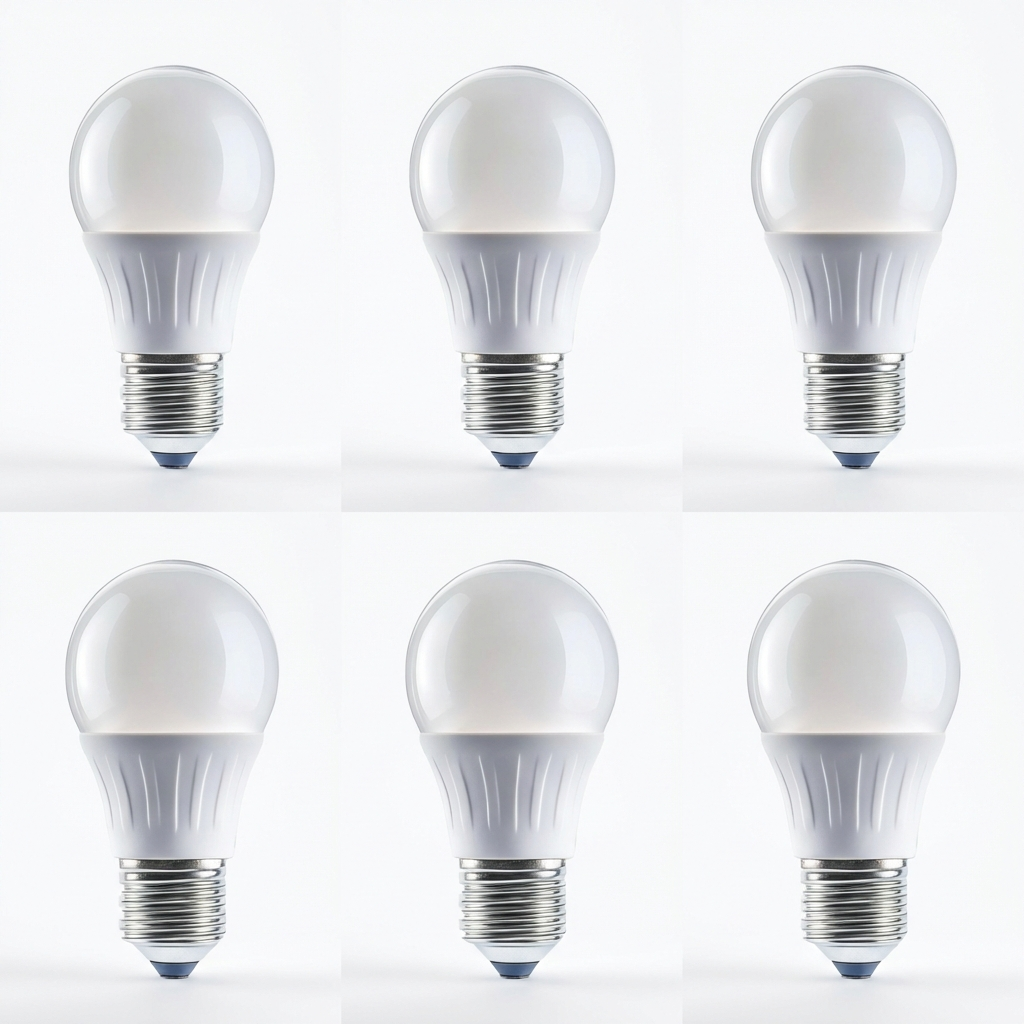
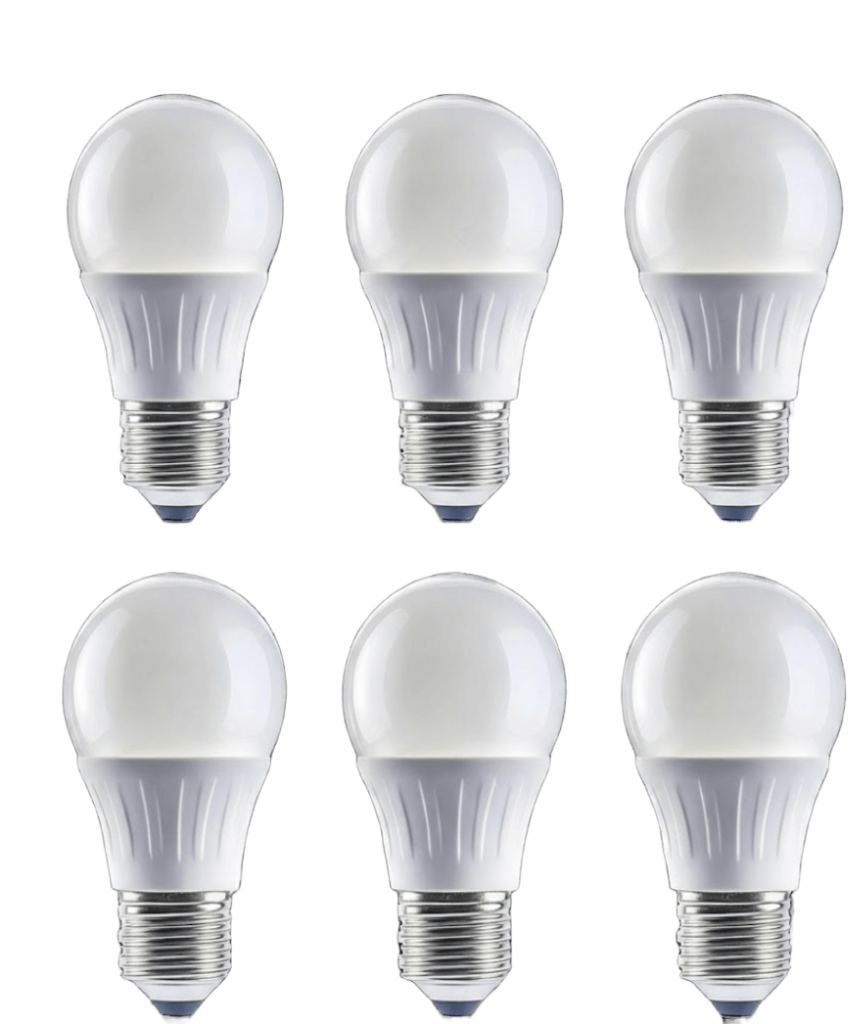
feat: update Pack Maison image and add 'Buy Now' and 'Add to Cart' buttons to pricing

diff --git a/src/components/Pricing.tsx b/src/components/Pricing.tsx
@@ -3,13 +3,14 @@ import { Button } from "@/components/ui/button";
 import { useCart } from "@/contexts/CartContext";
 import { useTranslation } from "react-i18next";
 import { useNavigate } from "react-router-dom";
+import { toast } from "sonner";
 
 const Pricing = () => {
   const { t } = useTranslation();
   const { addToCart } = useCart();
   const navigate = useNavigate();
 
-  const handleAddToCart = (offer: any) => {
+  const handleAddToCart = (offer: any, checkout = false) => {
     addToCart({
       id: offer.id,
       name: offer.name,
@@ -17,7 +18,12 @@ const Pricing = () => {
       quantity: 1,
       itemQuantity: offer.quantity,
     });
-    navigate("/checkout");
+
+    if (checkout) {
+      navigate("/checkout");
+    } else {
+      toast.success(t("pricing.addedToCart"));
+    }
   };
 
   const offers = [
@@ -59,7 +65,7 @@ const Pricing = () => {
   ];
 
   return (
-    <section id="offres" className="py-24 bg-[#f9fafb]">
+    <section id="offres" className="py-24 bg-white">
       <div className="container px-4">
         {/* Section header */}
         <div className="text-center max-w-2xl mx-auto mb-16">
@@ -77,8 +83,8 @@ const Pricing = () => {
             <div
               key={offer.id}
               className={`relative rounded-3xl p-10 flex flex-col transition-all duration-300 ${offer.popular
-                ? "bg-white border-2 border-[#D4A017] shadow-xl scale-105 z-10"
-                : "bg-white border border-[#f1f1f1] hover:shadow-lg"
+                ? "bg-transparent border-2 border-[#D4A017] scale-105 z-10"
+                : "bg-transparent border-none"
                 }`}
             >
               {offer.popular && (
@@ -88,11 +94,11 @@ const Pricing = () => {
               )}
 
               {/* Added Image */}
-              <div className="mb-6 rounded-2xl overflow-hidden aspect-[4/3] bg-white flex items-center justify-center">
+              <div className="mb-6 rounded-2xl overflow-hidden aspect-[4/3] bg-transparent flex items-center justify-center">
                 <img
                   src={offer.image}
                   alt={offer.name}
-                  className="w-full h-full object-contain transform hover:scale-110 transition-transform duration-500"
+                  className="w-full h-full object-contain transform hover:scale-110 transition-transform duration-500 mix-blend-multiply"
                 />
               </div>
 
@@ -130,15 +136,24 @@ const Pricing = () => {
                 ))}
               </ul>
 
-              <Button
-                onClick={() => handleAddToCart(offer)}
-                className={`w-full py-7 text-lg font-bold rounded-full transition-all duration-300 ${offer.popular
-                  ? "bg-[#D4A017] hover:bg-[#B8860B] text-[#0c1221]"
-                  : "bg-white hover:bg-gray-50 text-[#0c1221] border border-gray-200"
-                  }`}
-              >
-                {offer.cta}
-              </Button>
+              <div className="flex flex-col gap-3">
+                <Button
+                  onClick={() => handleAddToCart(offer, true)}
+                  className={`w-full py-7 text-lg font-bold rounded-full transition-all duration-300 ${offer.popular
+                    ? "bg-[#D4A017] hover:bg-[#B8860B] text-[#0c1221]"
+                    : "bg-[#0c1221] hover:bg-gray-900 text-white"
+                    }`}
+                >
+                  {t("pricing.ctaBuyNow")}
+                </Button>
+                <Button
+                  variant="outline"
+                  onClick={() => handleAddToCart(offer)}
+                  className="w-full py-7 text-lg font-bold rounded-full border-gray-200 hover:bg-gray-50 text-[#0c1221] transition-all duration-300"
+                >
+                  {t("pricing.ctaAddToCart")}
+                </Button>
+              </div>
             </div>
           ))}
         </div>

diff --git a/src/components/Benefits.tsx b/src/components/Benefits.tsx
@@ -38,7 +38,7 @@ const Benefits = () => {
   ];
 
   return (
-    <section className="py-24 bg-[#f9fafb]">
+    <section className="py-24 bg-white">
       <div className="container">
         {/* Section header */}
         <div className="text-center max-w-3xl mx-auto mb-16">
@@ -55,7 +55,7 @@ const Benefits = () => {
           {benefits.map((benefit, index) => (
             <div
               key={index}
-              className="p-10 rounded-3xl bg-white border border-[#f1f1f1] hover:shadow-xl transition-all duration-300"
+              className="p-10 rounded-3xl bg-transparent border-none transition-all duration-300 hover:bg-black/5"
             >
               <div className="w-16 h-16 rounded-2xl bg-[#D4A017]/10 flex items-center justify-center mb-8">
                 <benefit.icon className="w-8 h-8 text-[#D4A017]" />

diff --git a/src/components/FAQ.tsx b/src/components/FAQ.tsx
@@ -27,7 +27,7 @@ const FAQ = () => {
               <AccordionItem
                 key={index}
                 value={`item-${index}`}
-                className="bg-white rounded-xl px-8 border border-[#f1f1f1] overflow-hidden"
+                className="bg-transparent border-none border-b border-black/5 overflow-hidden"
               >
                 <AccordionTrigger className="text-left font-bold text-[#0c1221] hover:no-underline py-6">
                   {faq.question}

diff --git a/src/components/Reviews.tsx b/src/components/Reviews.tsx
@@ -25,7 +25,7 @@ const Reviews = () => {
           {reviews.map((review, index) => (
             <div
               key={index}
-              className="bg-[#f9fafb] rounded-2xl p-8 flex flex-col"
+              className="bg-transparent rounded-2xl p-8 flex flex-col transition-all duration-300 hover:bg-black/5"
             >
               <div className="flex items-center gap-3 mb-6">
                 <div className="w-12 h-12 rounded-full overflow-hidden bg-gray-200">
